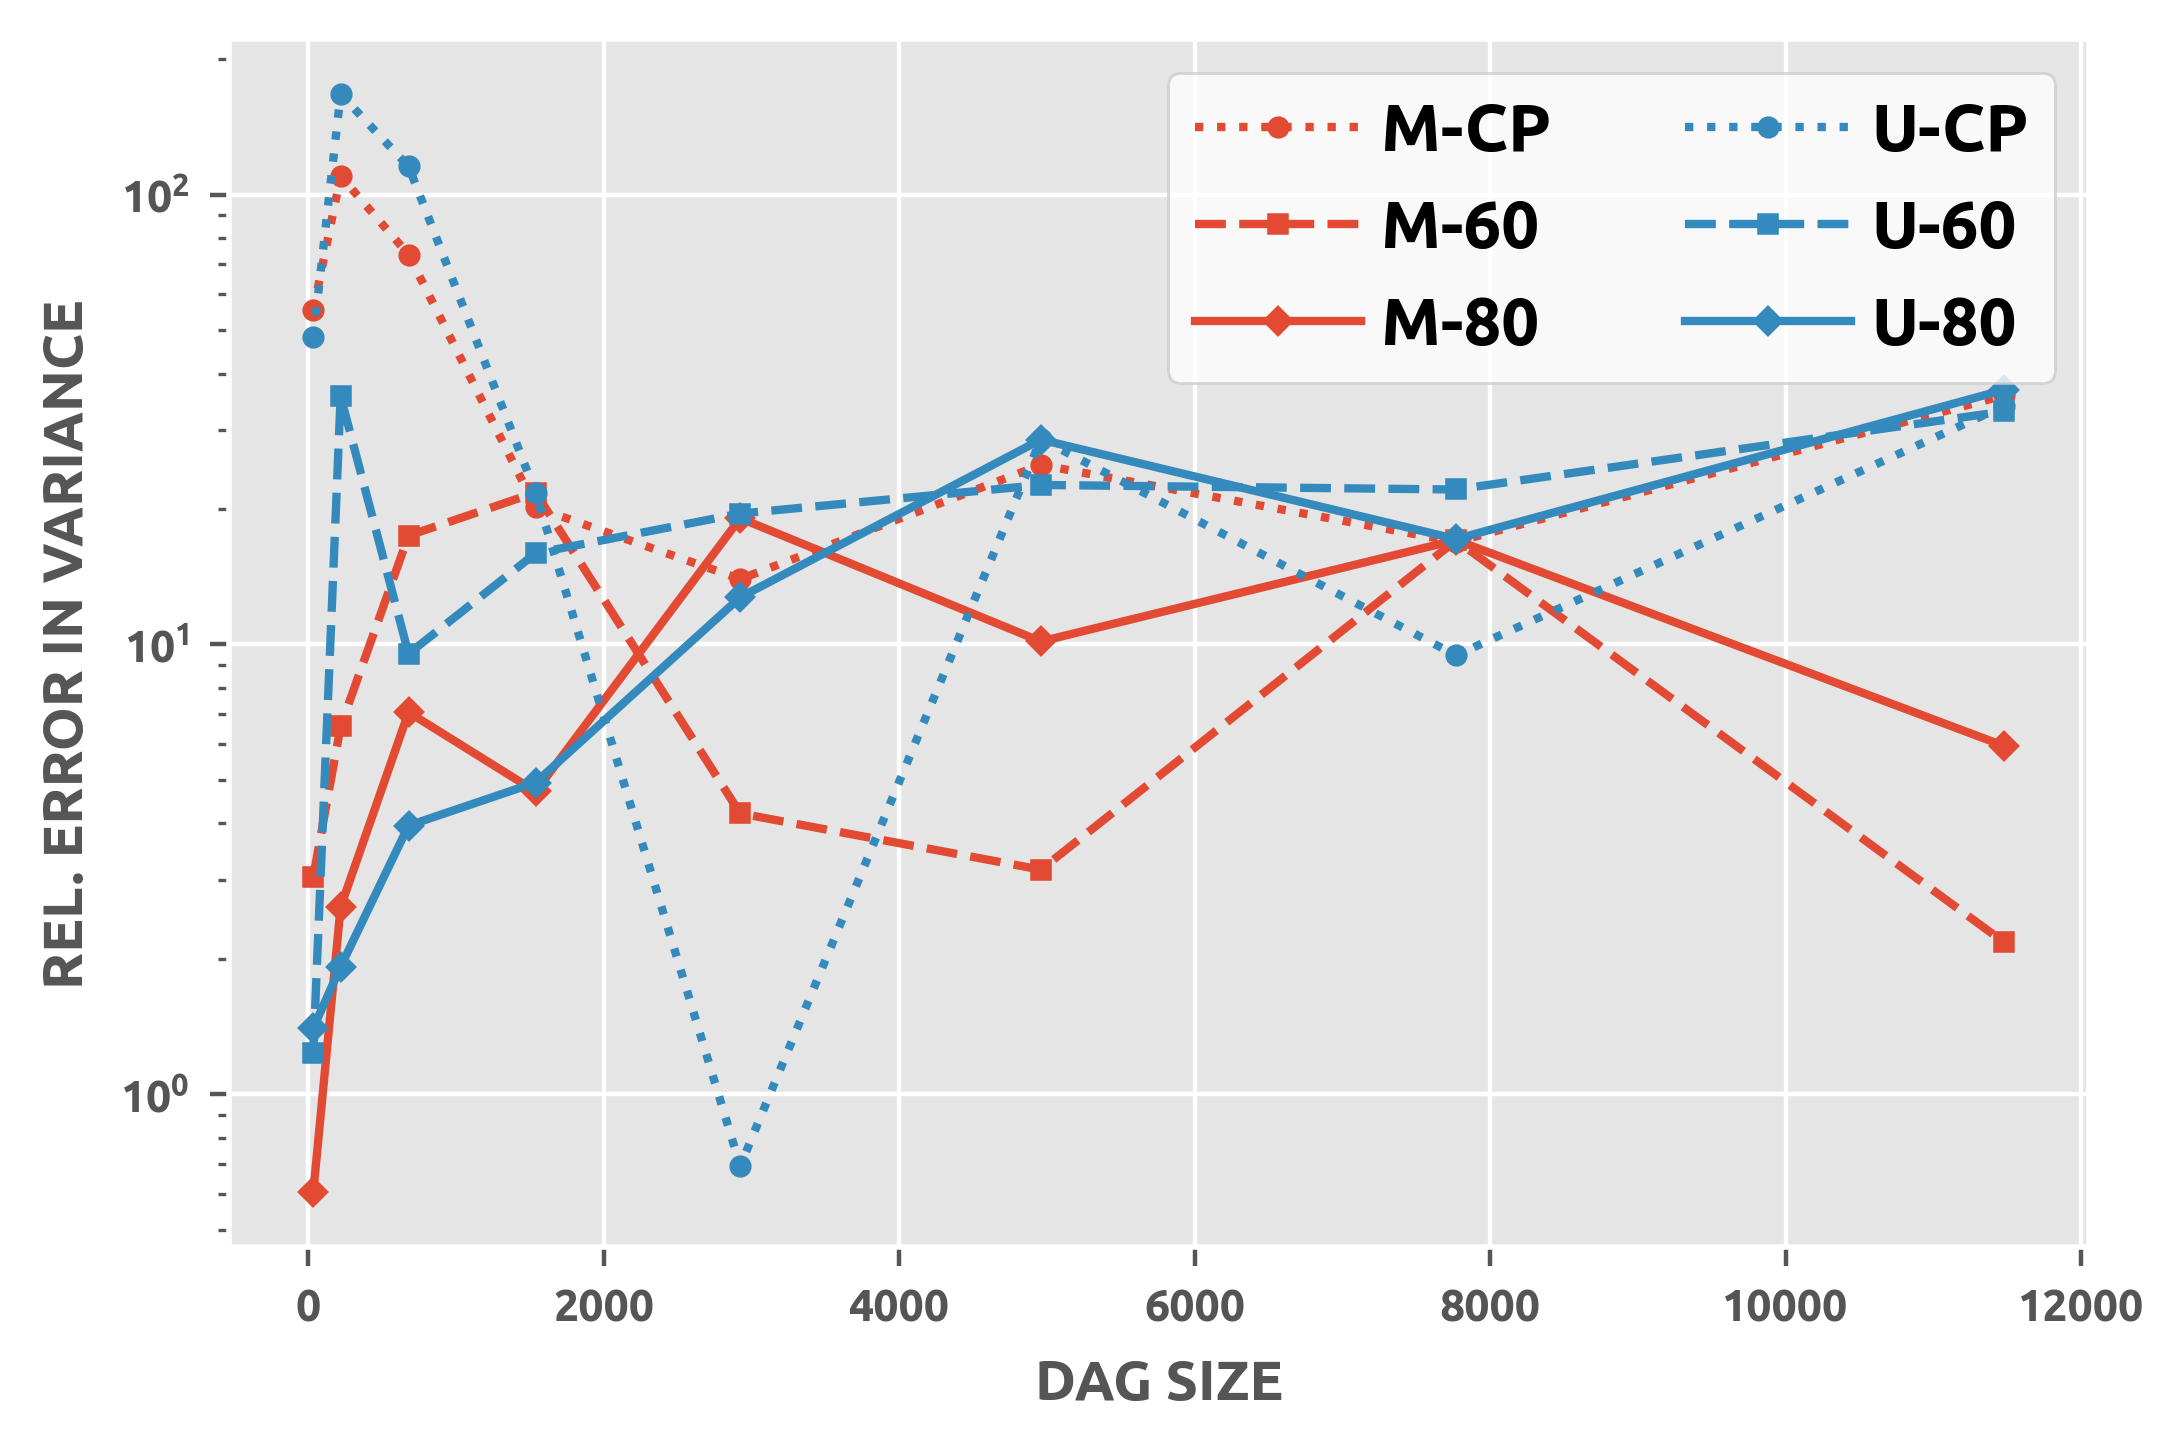
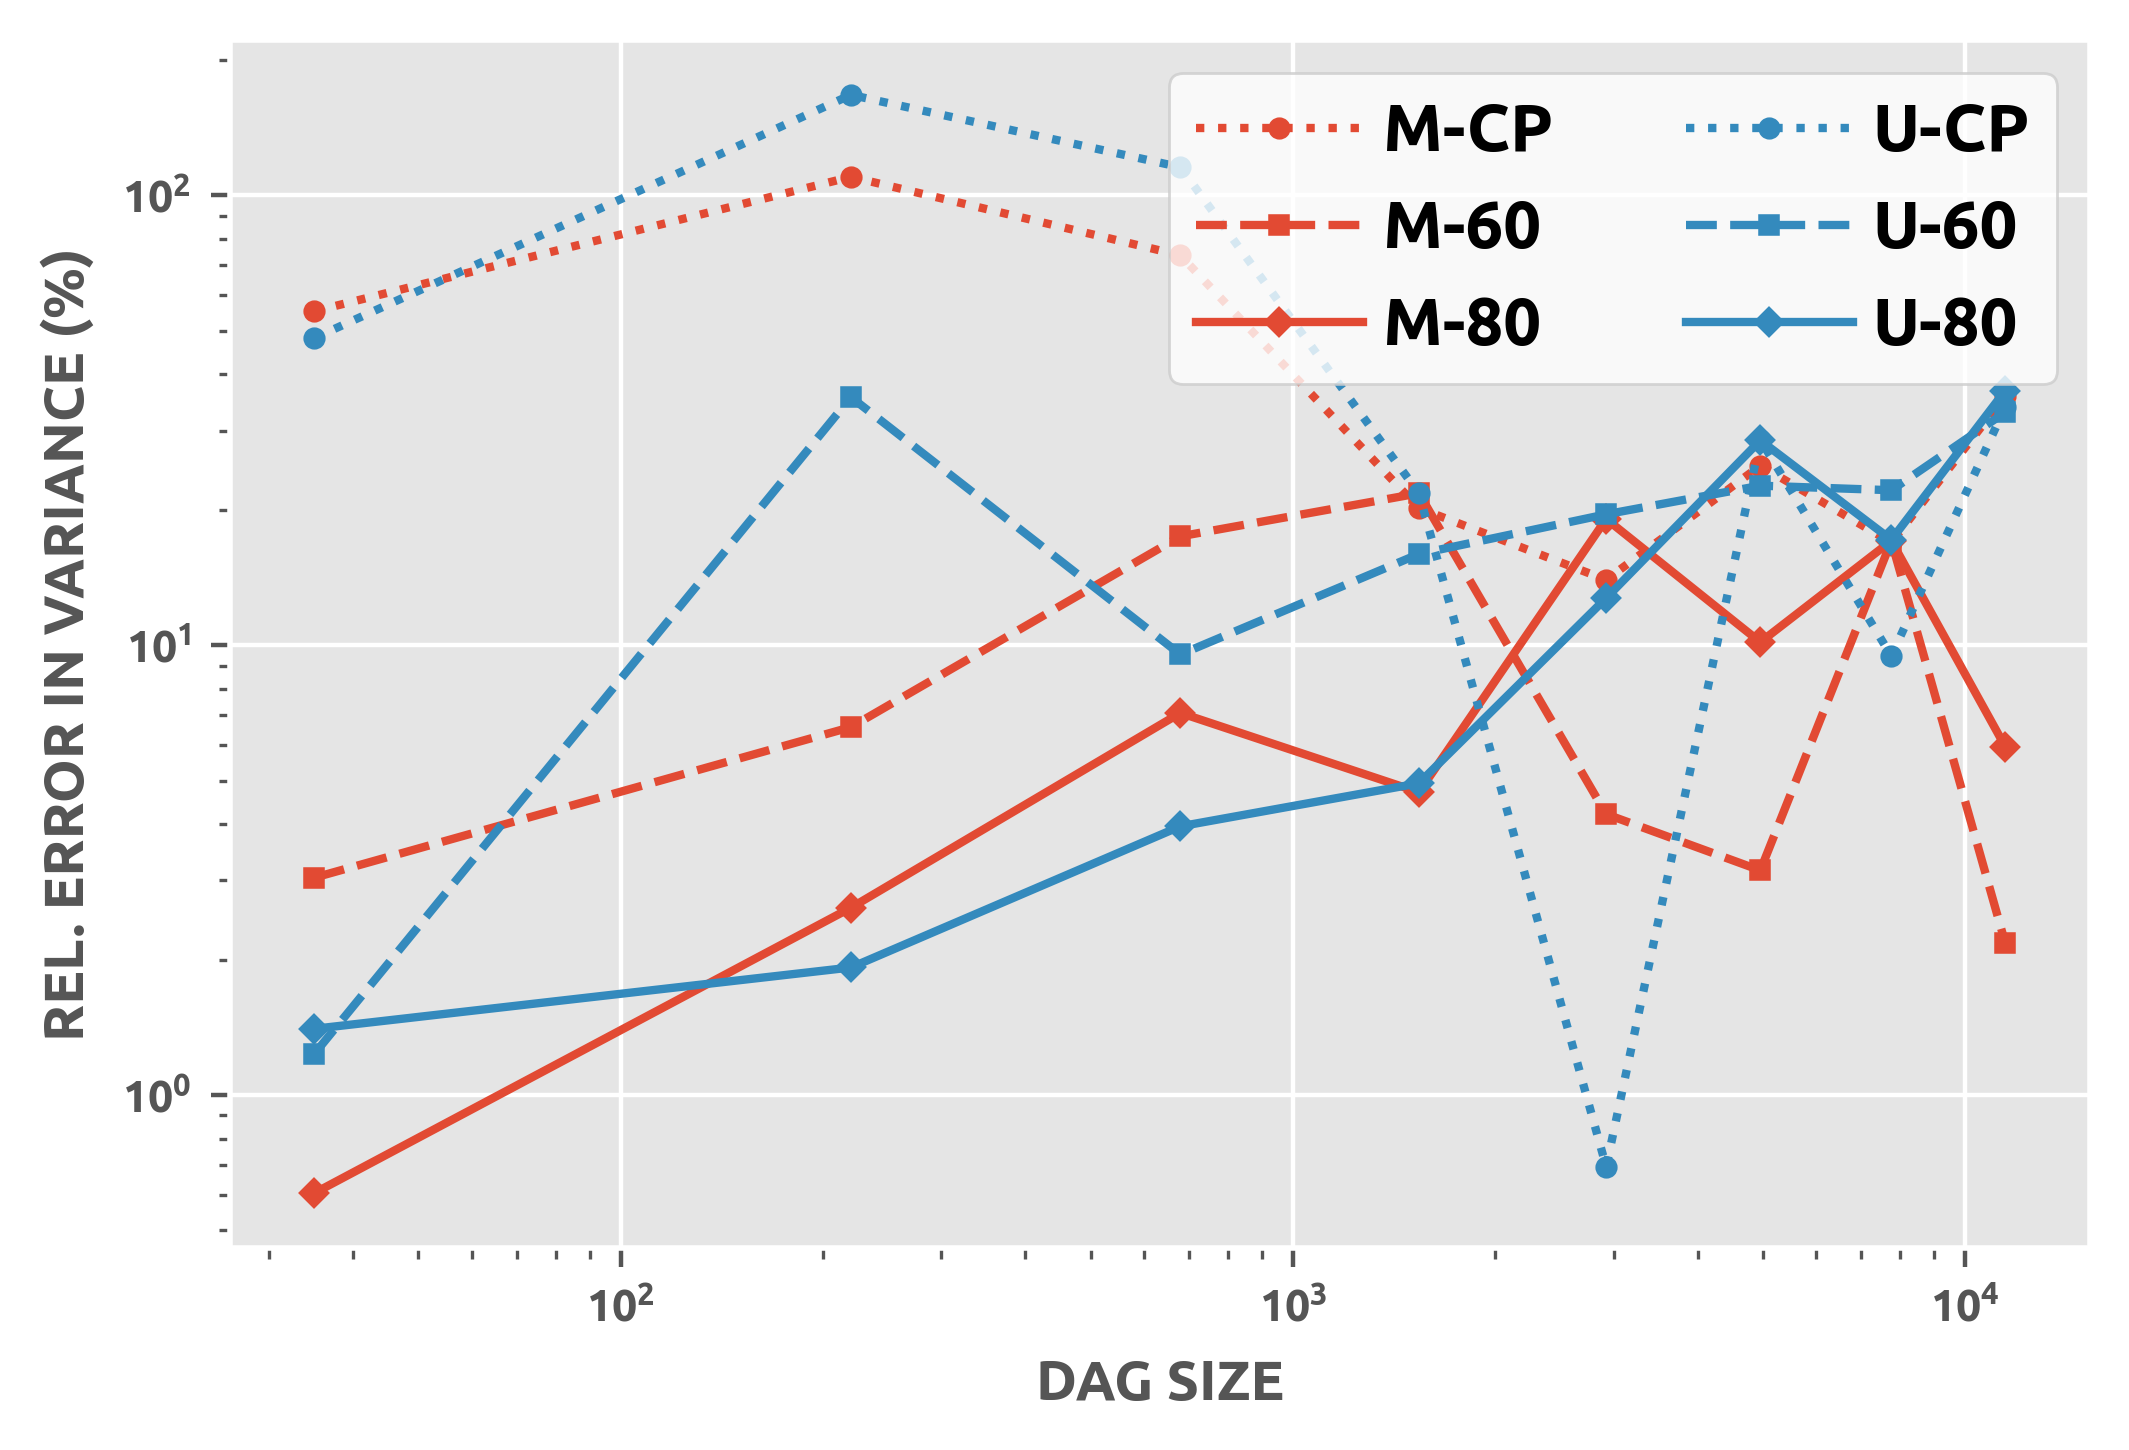
pruning

diff --git a/results/analysis/pruning.py b/results/analysis/pruning.py
@@ -55,7 +55,7 @@ with open('../data/chol_prune_timings.dill', 'rb') as file:
 # Cholesky.
 # =============================================================================
 
-# # Summary.
+# # Full summary.
 # for dist, s in it.product(["NORMAL", "GAMMA", "UNIFORM"], [10, 30, 100, 1000]):
 #     with open("{}/chol_{}_{}SAMPLES.txt".format(summary_path, dist, s), "w") as dest:
 #         print("QUALITY OF PRUNED MC SOLUTIONS RELATIVE TO FULL MC SOLUTIONS.", file=dest)
@@ -88,6 +88,51 @@ with open('../data/chol_prune_timings.dill', 'rb') as file:
 #                     time_reduction = 100 - (prune_time/full_time)*100
 #                     print("Time savings (%): {}".format(time_reduction), file=dest)
 #                     print("------------------------------------------------------", file=dest)
+
+# Average summary.
+s = 1000
+with open("{}/chol_avgs_{}SAMPLES.txt".format(summary_path, s), "w") as dest:
+    print("AVERAGE QUALITY OF PRUNED MC SOLUTIONS RELATIVE TO FULL MC SOLUTIONS.", file=dest)
+    print("NUMBER OF SAMPLES: {}.".format(s), file=dest)
+    
+    for dist in ["NORMAL", "GAMMA", "UNIFORM"]:
+        print("\n\n\n---------------------------------", file=dest)
+        print("WEIGHT DISTRIBUTIONS: {}".format(dist), file=dest) 
+        print("---------------------------------", file=dest)
+        
+        mean_errors = {WL : [] for WL in it.product(["MEAN", "UCB"], [0, 0.6, 0.8])}
+        var_errors = {WL : [] for WL in it.product(["MEAN", "UCB"], [0, 0.6, 0.8])}
+        ks_stats = {WL : [] for WL in it.product(["MEAN", "UCB"], [0, 0.6, 0.8])}
+        time_reductions = {WL : [] for WL in it.product(["MEAN", "UCB"], [0, 0.6, 0.8])}
+        
+        for nt in n_tasks: 
+             ref_dist = chol_prune[nt][dist][s]["FULL"] 
+             ref_mean, ref_var = np.mean(ref_dist), np.var(ref_dist)             
+             for W, L in it.product(["MEAN", "UCB"], [0, 0.6, 0.8]):
+                emp_dist = chol_prune[nt][dist][s][(W, L)]
+                emp_mean, emp_var = np.mean(emp_dist), np.var(emp_dist)
+                mu_rel = abs(emp_mean - ref_mean)/ref_mean
+                mean_errors[(W, L)].append(100*mu_rel)
+                var_rel = abs(emp_var - ref_var)/ref_var
+                var_errors[(W, L)].append(100*var_rel)
+                ks, p = ks_2samp(emp_dist, ref_dist)
+                ks_stats[(W, L)].append(ks)
+                prune_time = chol_prune_timings[nt][dist][s][(W, L)][0]
+                full_time = chol_prune_timings[nt][dist][s]["FULL"]
+                time_reduction = 100 - (prune_time/full_time)*100
+                time_reductions[(W, L)].append(time_reduction)
+        
+        # Compute averages over entire set.
+        for WL in it.product(["MEAN", "UCB"], [0, 0.6, 0.8]):
+            print("------------------------------------------------------", file=dest)
+            print("MC heuristic = {}".format(WL), file=dest)
+            print("Average relative error in mean (%): {}".format(np.mean(mean_errors[WL])), file=dest)
+            print("Average relative error in variance (%): {}".format(np.mean(var_errors[WL])), file=dest)
+            print("Average KS statistic: {}".format(np.mean(ks_stats[WL])), file=dest)
+            print("Average time reduction (%): {}".format(np.mean(time_reductions[WL])), file=dest)
+            print("------------------------------------------------------", file=dest)
+    
+
                        
 # Plots.
 # # Relative error in mean.     
@@ -114,29 +159,55 @@ with open('../data/chol_prune_timings.dill', 'rb') as file:
 #     plt.savefig('{}/{}_{}SAMPLES'.format(add_plot_path, dist, s), bbox_inches='tight') 
 #     plt.close(fig)                
                     
-# Relative error in variance.     
-colors = {"MEAN" : '#E24A33', "UCB" : '#348ABD'}         
-markers = {0 : 'o', 0.6 : 's', 0.8 : "D"}  
-styles = {0 : ':', 0.6 : '--', 0.8 : "-"}   
-labels = {("MEAN", 0) : 'M-CP', ("MEAN", 0.6) : 'M-60', ("MEAN", 0.8) : 'M-80', 
-          ("UCB", 0) : 'U-CP', ("UCB", 0.6) : 'U-60', ("UCB", 0.8) : 'U-80'} 
-add_plot_path = "../plots/pruning/chol_var_error"
-pathlib.Path(add_plot_path).mkdir(parents=True, exist_ok=True)
-for dist, s in it.product(["NORMAL", "GAMMA", "UNIFORM"], [10, 30, 100, 1000]):    
-    ref_vars = list(np.var(chol_prune[nt][dist][s]["FULL"]) for nt in n_tasks)
-    fig = plt.figure(dpi=400)
-    ax1 = fig.add_subplot(111)
-    for W, L in it.product(["MEAN", "UCB"], [0, 0.6, 0.8]):  
-        emp_vars = list(np.var(chol_prune[nt][dist][s][(W, L)]) for nt in n_tasks)
-        rel_errors = list(100*abs(e - r)/r for r, e in zip(ref_vars, emp_vars))
-        ax1.plot(n_tasks, rel_errors, color=colors[W], linestyle=styles[L], marker=markers[L], label=labels[(W, L)])
-    plt.yscale('log')
-    ax1.set_xlabel("DAG SIZE", labelpad=5)
-    ax1.set_ylabel("REL. ERROR IN VARIANCE", labelpad=5)
-    ax1.legend(handlelength=2.5, handletextpad=0.3, ncol=2, loc='best', fancybox=True, facecolor='white') 
-    plt.savefig('{}/{}_{}SAMPLES'.format(add_plot_path, dist, s), bbox_inches='tight') 
-    plt.close(fig) 
+# # Relative error in variance.     
+# colors = {"MEAN" : '#E24A33', "UCB" : '#348ABD'}         
+# markers = {0 : 'o', 0.6 : 's', 0.8 : "D"}  
+# styles = {0 : ':', 0.6 : '--', 0.8 : "-"}   
+# labels = {("MEAN", 0) : 'M-CP', ("MEAN", 0.6) : 'M-60', ("MEAN", 0.8) : 'M-80', 
+#           ("UCB", 0) : 'U-CP', ("UCB", 0.6) : 'U-60', ("UCB", 0.8) : 'U-80'} 
+# add_plot_path = "../plots/pruning/chol_var_error"
+# pathlib.Path(add_plot_path).mkdir(parents=True, exist_ok=True)
+# for dist, s in it.product(["NORMAL", "GAMMA", "UNIFORM"], [10, 30, 100, 1000]):    
+#     ref_vars = list(np.var(chol_prune[nt][dist][s]["FULL"]) for nt in n_tasks)
+#     fig = plt.figure(dpi=400)
+#     ax1 = fig.add_subplot(111)
+#     for W, L in it.product(["MEAN", "UCB"], [0, 0.6, 0.8]):  
+#         emp_vars = list(np.var(chol_prune[nt][dist][s][(W, L)]) for nt in n_tasks)
+#         rel_errors = list(100*abs(e - r)/r for r, e in zip(ref_vars, emp_vars))
+#         ax1.plot(n_tasks, rel_errors, color=colors[W], linestyle=styles[L], marker=markers[L], label=labels[(W, L)])
+#     plt.yscale('log')
+#     plt.xscale('log')
+#     ax1.set_xlabel("DAG SIZE", labelpad=5)
+#     ax1.set_ylabel("REL. ERROR IN VARIANCE (%)", labelpad=5)
+#     ax1.legend(handlelength=2.5, handletextpad=0.3, ncol=2, loc='best', fancybox=True, facecolor='white') 
+#     plt.savefig('{}/{}_{}SAMPLES'.format(add_plot_path, dist, s), bbox_inches='tight') 
+#     plt.close(fig) 
                 
 # KS statistic.
+# colors = {"MEAN" : '#E24A33', "UCB" : '#348ABD'}         
+# markers = {0 : 'o', 0.6 : 's', 0.8 : "D"}  
+# styles = {0 : ':', 0.6 : '--', 0.8 : "-"}   
+# labels = {("MEAN", 0) : 'M-CP', ("MEAN", 0.6) : 'M-60', ("MEAN", 0.8) : 'M-80', 
+#           ("UCB", 0) : 'U-CP', ("UCB", 0.6) : 'U-60', ("UCB", 0.8) : 'U-80'} 
+# add_plot_path = "../plots/pruning/chol_ks_stat"
+# pathlib.Path(add_plot_path).mkdir(parents=True, exist_ok=True)
+# for dist, s in it.product(["NORMAL", "GAMMA", "UNIFORM"], [10, 30, 100, 1000]):    
+#     ref_vars = list(np.var(chol_prune[nt][dist][s]["FULL"]) for nt in n_tasks)
+#     fig = plt.figure(dpi=400)
+#     ax1 = fig.add_subplot(111)
+#     for W, L in it.product(["MEAN", "UCB"], [0, 0.6, 0.8]): 
+#         ks_stats = []
+#         for nt in n_tasks:   
+#             ref_dist = chol_prune[nt][dist][s]["FULL"]
+#             emp_dist = chol_prune[nt][dist][s][(W, L)]
+#             ks, p = ks_2samp(emp_dist, ref_dist)
+#             ks_stats.append(ks)
+#         ax1.plot(n_tasks, ks_stats, color=colors[W], linestyle=styles[L], marker=markers[L], label=labels[(W, L)])
+#     plt.xscale('log')
+#     ax1.set_xlabel("DAG SIZE", labelpad=5)
+#     ax1.set_ylabel("KS STATISTIC", labelpad=5)
+#     ax1.legend(handlelength=2.5, handletextpad=0.3, ncol=2, loc='best', fancybox=True, facecolor='white') 
+#     plt.savefig('{}/{}_{}SAMPLES'.format(add_plot_path, dist, s), bbox_inches='tight') 
+#     plt.close(fig) 
 
 # Histograms. 
